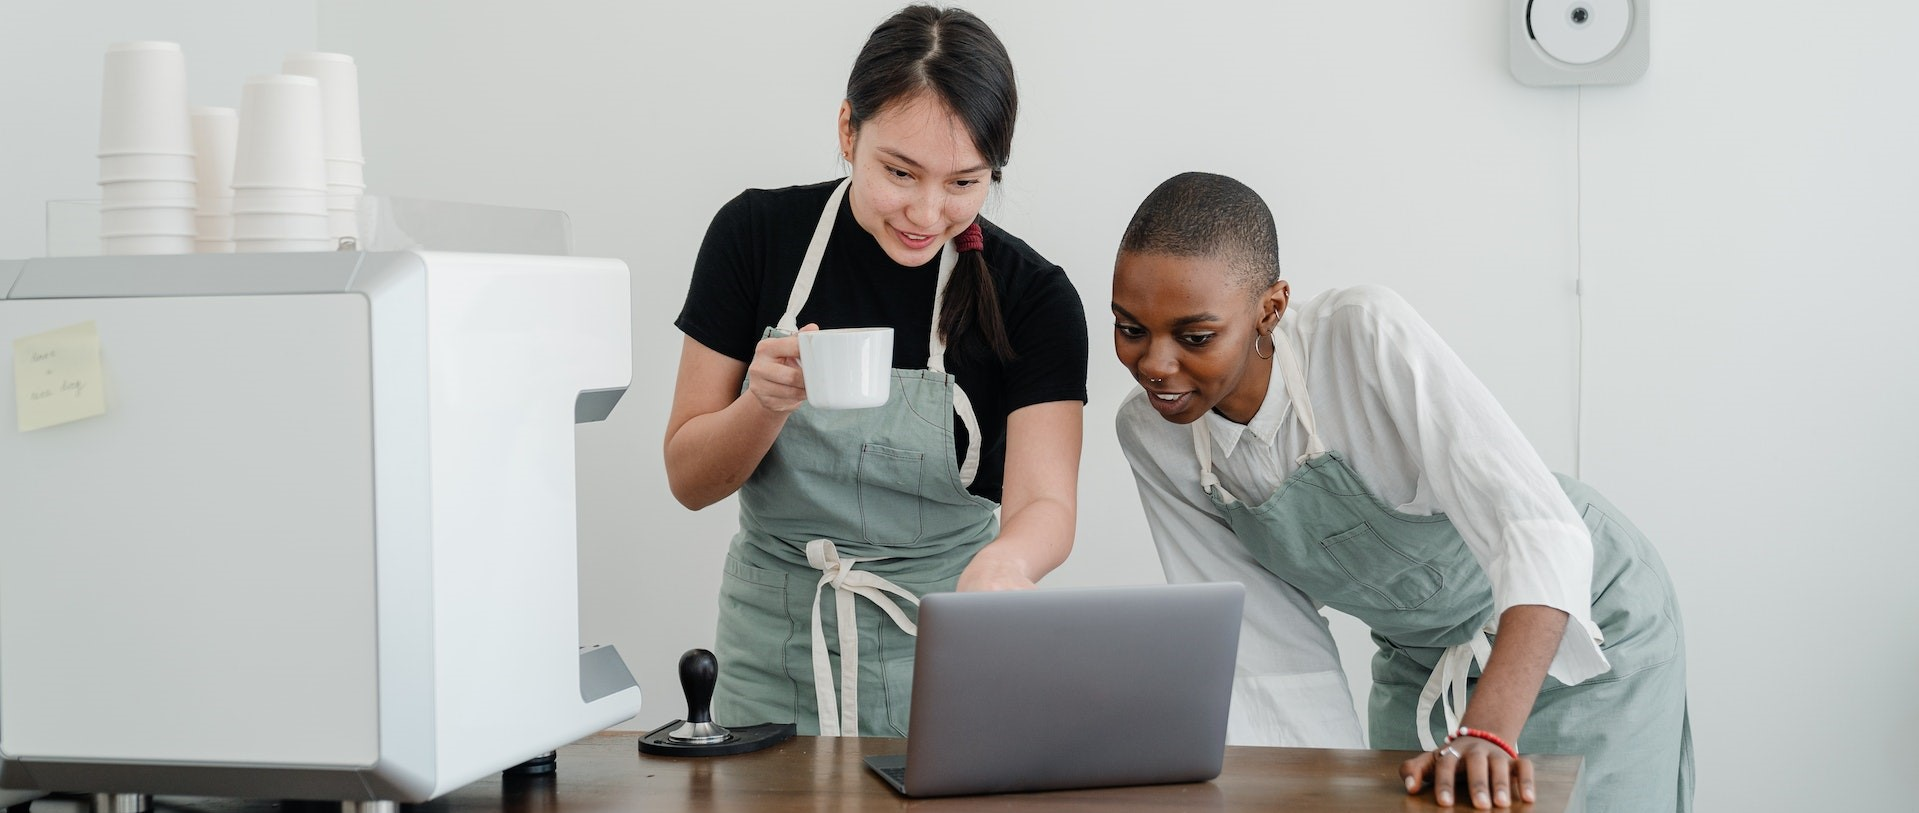
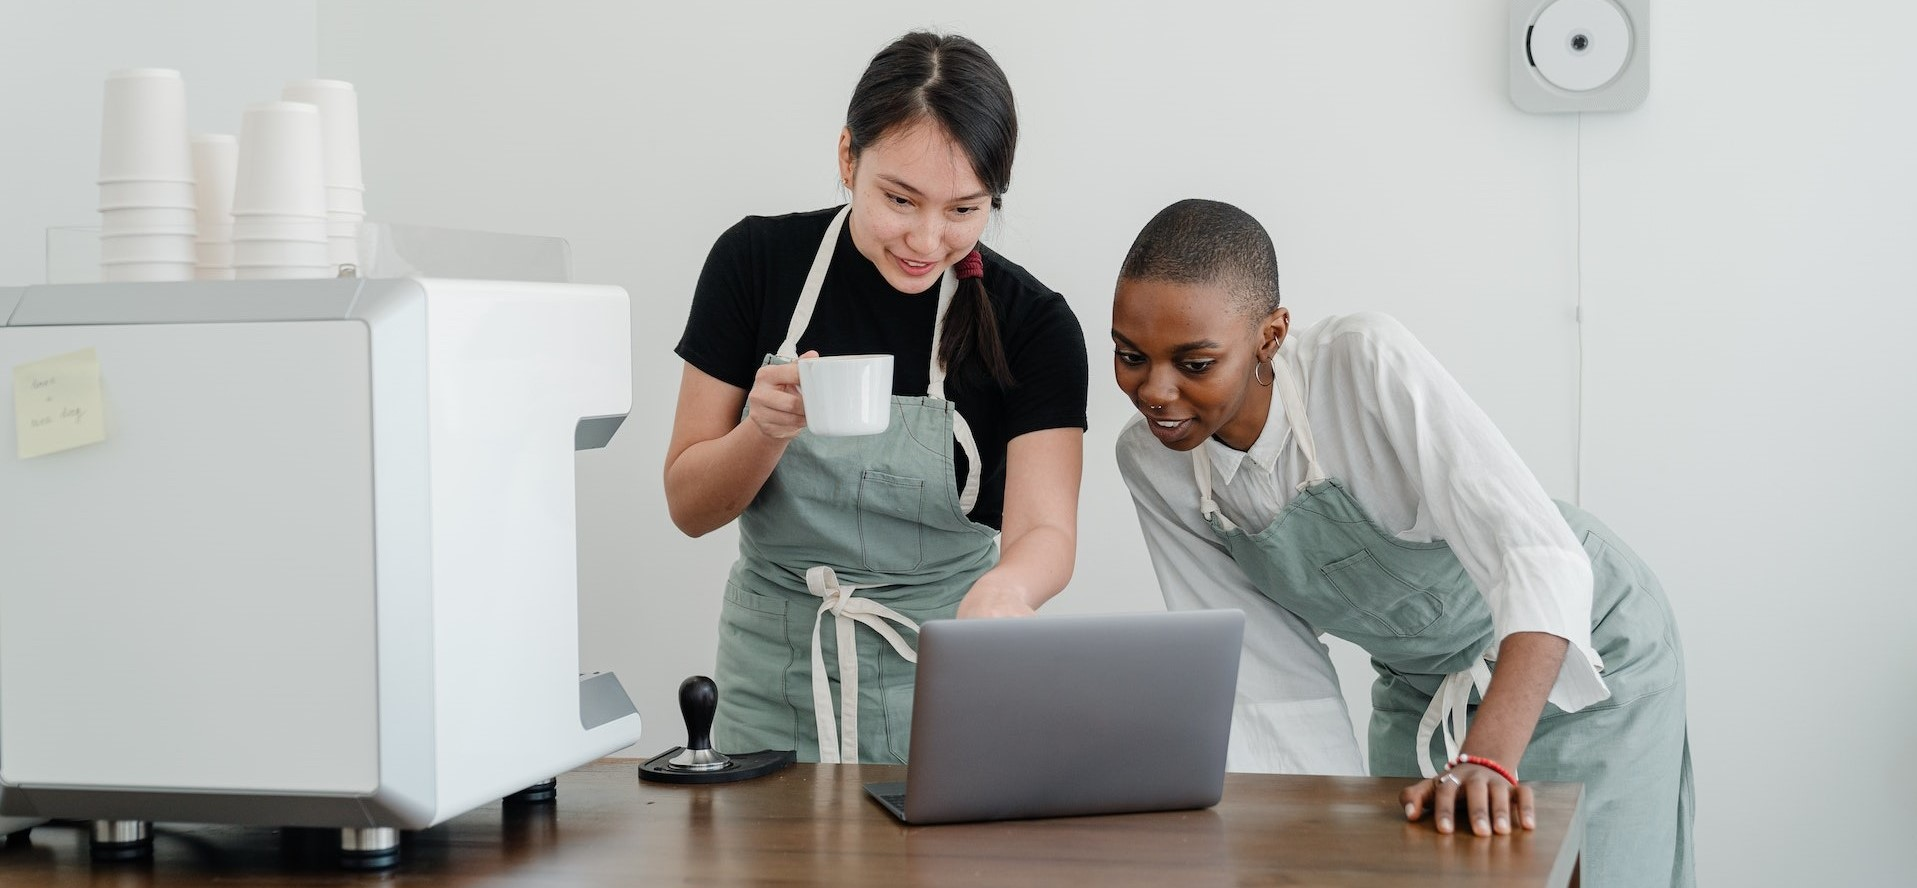
Add files via upload

diff --git a/style.css b/style.css
@@ -4,6 +4,11 @@
     box-sizing: border-box;
 }
 
+html body{
+    width: 100%;
+    height: 100vh;
+}
+
 /*paleta de cores*/
 .cor1{
     color: rgb(76, 118, 196);
@@ -109,12 +114,14 @@
 }
 
 .call{
-    background-image: url(web1.jpg);
+    background: url(web1.jpg);
     background-size: cover;
     background-attachment: fixed;
-    background-position: center;
+    background-position: top;
+    background-repeat: no-repeat;
+    max-width: 1919px;
     width: 100%;
-    height: 650px;
+    height: 95vh; 
     background-color: rgb(76, 118, 196);
 }
 .card{
@@ -143,18 +150,15 @@
 .call2text{
     width: 40%;
 }
+/*MEDIAS QUARYES*/
 
-@media only screen and (max-width: 1024px) {
-    .call2{
-    }
-}
 @media only screen and (max-width: 800px) {
+    
     .card{
         width: 50%;
     }
     .serv{ 
         width: 100%;
-        padding: ;
     }
     .call2{
         width: 100%;
@@ -167,13 +171,6 @@
     .call2text p{
         width: 100%;
         color: black !important;
-    }
-    .call{
-        background-size: cover;
-        background-attachment: fixed;
-        background-position: center;
-        width: 100%;
-        height: 500px;
     }
 }
 

diff --git a/index.html b/index.html
@@ -21,7 +21,7 @@
 <body>
     <header>
       <div style="position: fixed; background-color: white;width: 100%;">
-        <a class="mg-10 mgl-40 inline-block txt-25p font-urb6 cor1">Oub<span style="-webkit-text-stroke: 1px rgb(76, 118, 196);color: white;">corp</span></a>
+        <a class="mg-10 mgl-40 inline-block txt-25p font-urb6 cor1">Oub<span style="color: rgb(129, 216, 194);">corp</span></a>
       <nav class="sup-nav ft-r font-urb4 mg-15">
         <ul>
           <li class="inline-block mgr-40">
@@ -37,7 +37,7 @@
     <section>
       <div class="call"></div>
     </section>
-    <section>
+    <section style="background-color: white;">
       <div class="pd-50 font-urb7 cor1 txt-center">
       <!--<h2>Um bom site será o seu melhor Cartão de Visitas</h2>--><h2>Veja algumas das vantagens de ter um site para o seu negócio:</h2>
       </div>
